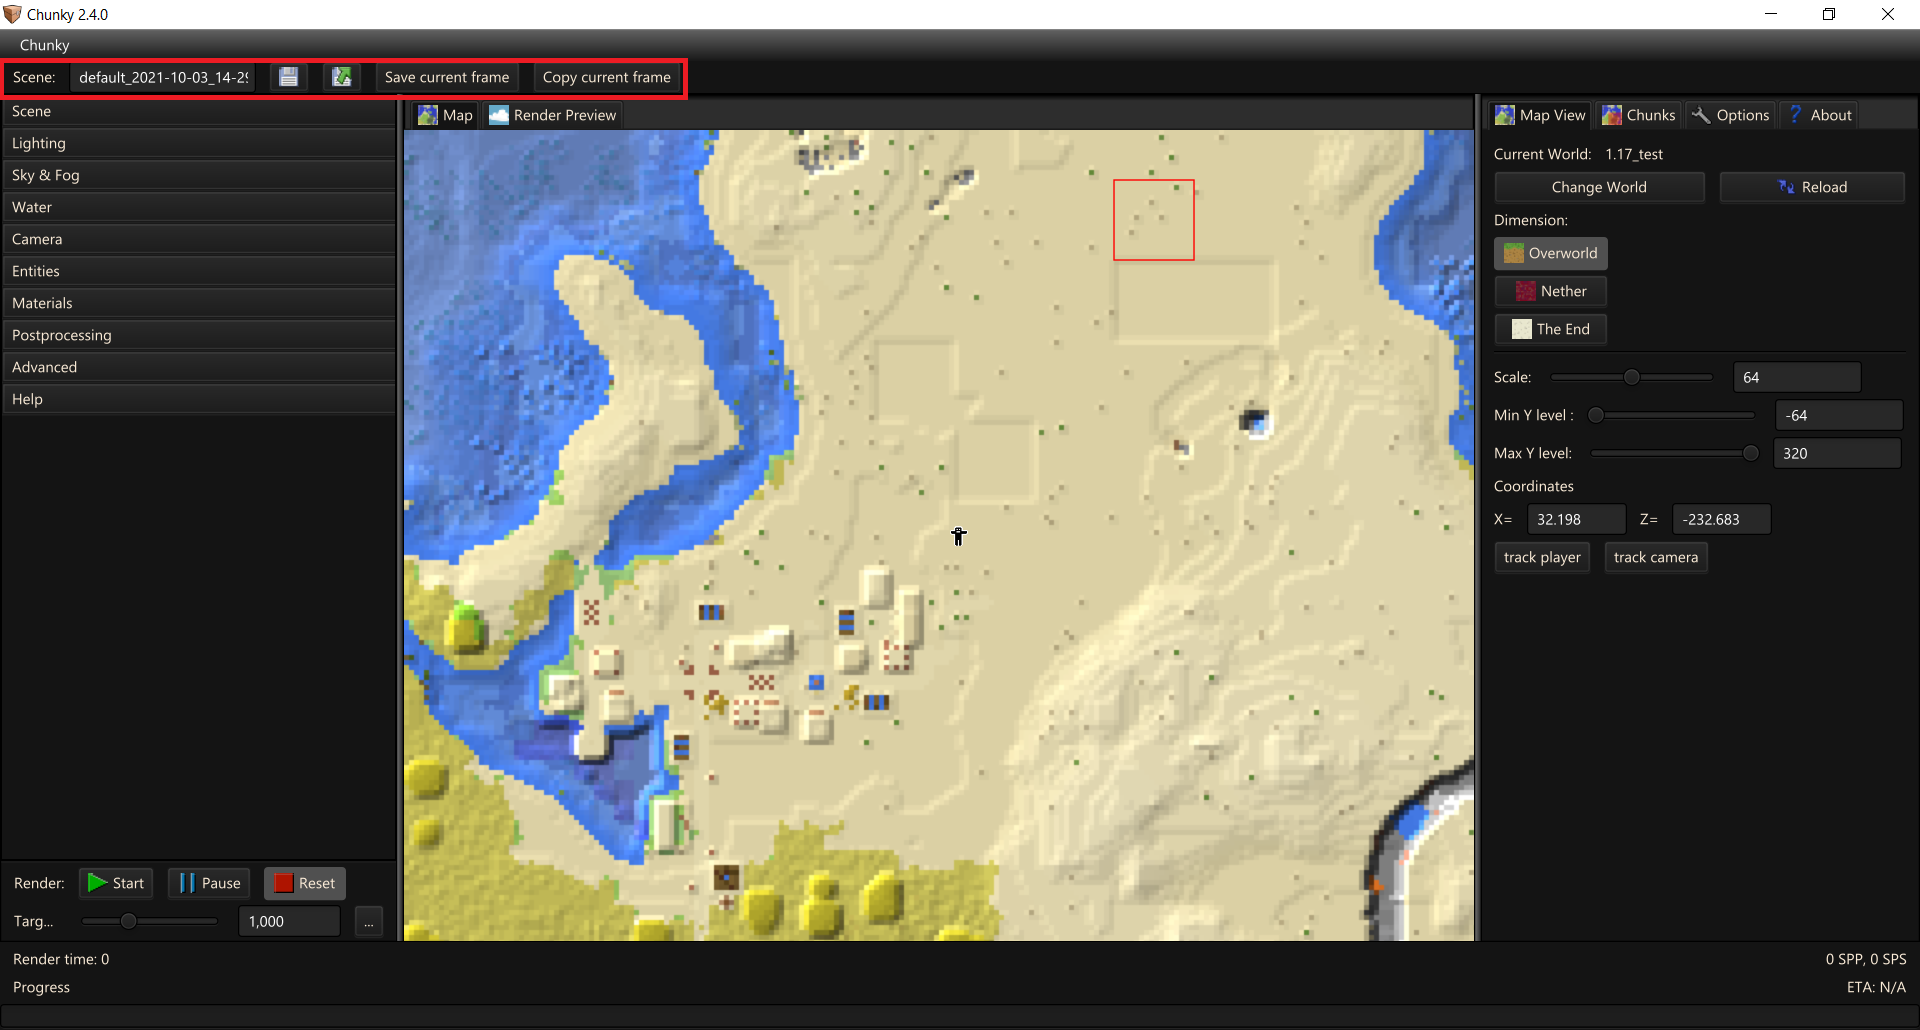
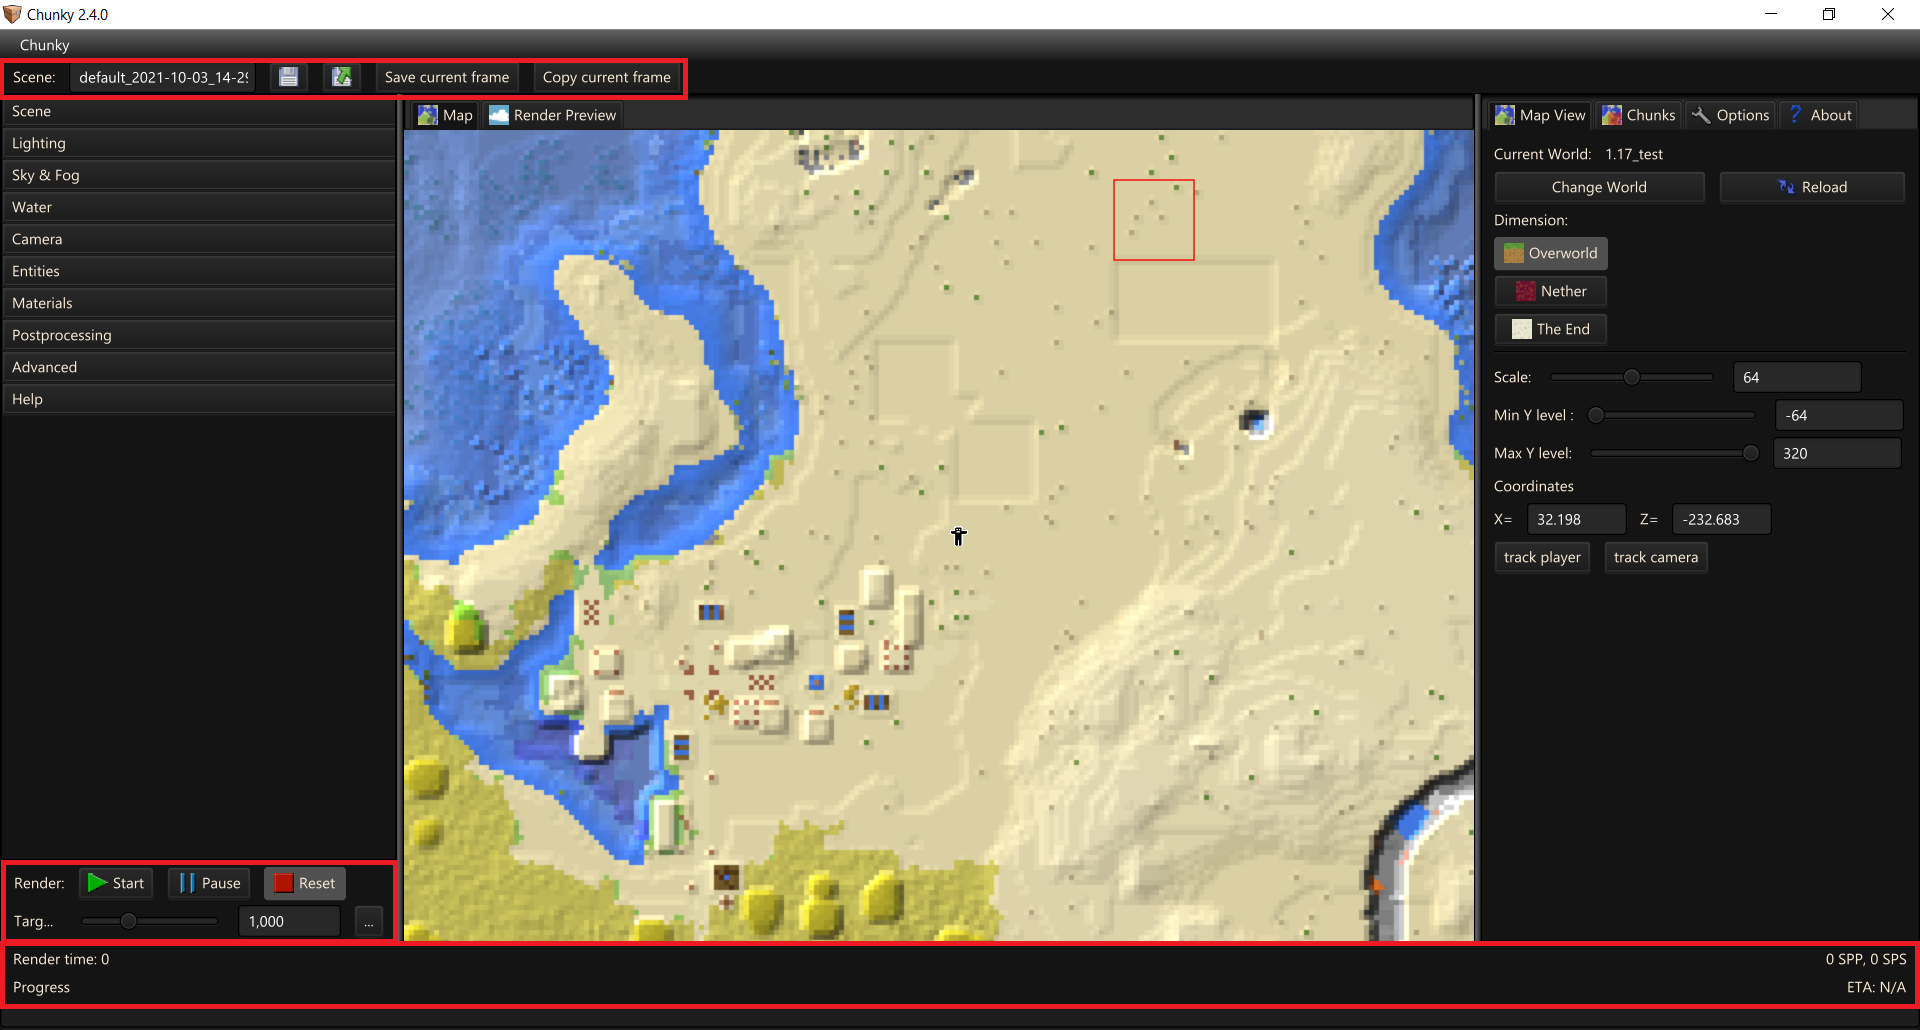
Add headings and some more descriptions

diff --git a/ChunkyDocs/docs/user_interface/render/camera.md b/ChunkyDocs/docs/user_interface/render/camera.md
@@ -2,6 +2,8 @@
 
 ![Render controls Camera](../../img/user_interface/render_controls/camera.png)
 
+## Camera General
+
 - `Load preset` - Loads a camera preset: `Isometric [NW, NE, SE, SW]`, `Skybox [Right, Left, Up, Down, Front (North), Back]`.
 
 	- `Isometric` modes set the camera `projection mode` to `parallel` with the camera aimed down at 45 degrees towards the center of the currently loaded chunks. Yaw depends on preset selected.
@@ -16,6 +18,8 @@
 
 ---
 
+## Camera Controls
+
 - `Position & Orientation`
 
 	- `Position` - Defines the X, Y, Z, coordinates of the Camera. These coordinates correlate with the Minecraft world positions.
@@ -28,6 +32,8 @@
 
 - `Center camera` - Moves the camera to the centre of the loaded world and faces the camera to the ground.
 
+### Projection modes
+
 - `Projection mode`
 
 	- `Standard` - Default pinhole projection works like a normal camera.
@@ -36,13 +42,16 @@
 	
 	- `Fisheye` - This projection makes is like an extrme wide angle lens which distorts images.
 	
-	- `Stereographic`
+	- `Stereographic` - Stereographic projection maps points on the sphere to a plane. If you want tiny planets this is one good way to achieve them.
 	
-	- `Panoramic (equirectangular)`
+	- `Panoramic (equirectangular)` - Simular to standard/pinhole projection.
 	
-	- `Panoramic (slot)`
+	- `Panoramic (slot)` - Behaves like a pinhole camera in the vertical direction, but like a spherical one in the horizontal direction.
 	
-	- `Omni-deirctional Stereo (left/right eye)`
+	- `Omni-deirctional Stereo (left/right eye)` - This projection can create distinct images for viewing on VR devices by factoring the inter-pupillary distance in. Some lines may appear slightly curved.
+
+
+### Depth of Field
 
 - `Field of view (zoom)` - Controls the field of view in the virtual camera. Lower causes a narrower field of view (higher magnification) and high value will result in a wider field of view (low magnification). 70 is the default value, which corresponds with Minecraft's normal field of view.
 

diff --git a/ChunkyDocs/docs/user_interface/render/scene.md b/ChunkyDocs/docs/user_interface/render/scene.md
@@ -18,6 +18,28 @@
 
 ---
 
+- `Start` - Start / Resume render
+
+- `Pause` - Pause current render; current sample must finish before Chunky can pause.
+
+- `Reset` - Reset render back to 0 samples/preview.
+
+- `Target SPP` - Controls target SPP. Can be altered on the go.
+
+---
+
+- `Render time` - Duration of the current render.
+
+- `Progress` - Visual progress bar of the current render progress.
+
+- `SPP`- Samples Per Pixel is one of the defining factors to render quality.
+
+- `SPS` - An averaged measure of the Samples Per Second. Should note that for a 1920x1080 image there are around 2.07 million, or mega, pixels and all of these need to be sampled before SPP is incremented.
+
+- `ETA` - Rough estimate for render completion based on SPS.
+
+---
+
 ### Select 3D Scene
 
 ![Select 3D Scene](../../img/user_interface/render_controls/select3dscene.png)
@@ -38,7 +60,9 @@ Provides a list of all detected scenes in the Scenes directory.
 
 ![Scene tab](../../img/user_interface/render_controls/scene_tab.png)
 
--`Open scene directory` - Opens current scenes directory on disk. It is `~/.chunky/scenes` by default.
+### Scene and chunks
+
+- `Open scene directory` - Opens current scenes directory on disk. It is `~/.chunky/scenes` by default.
 
 - `Export settings` - This allows you to export settings to a copyable JSON. You can individually choose which settings to export.
 
@@ -55,6 +79,8 @@ Provides a list of all detected scenes in the Scenes directory.
 `Reload chunks` - Re-load the currently selected chunks. If working with a loaded scene, ensure the the current selected world is the same as the world used to create the scene.
 
 ---
+
+### Render settings
 
 - `Canvas size` - This is the resolution at which to render at. The drop down has a few presets. (Width x Height)
 

diff --git a/ChunkyDocs/docs/user_interface/render/advanced.md b/ChunkyDocs/docs/user_interface/render/advanced.md
@@ -2,11 +2,15 @@
 
 ![Render controls Advanced](../../img/user_interface/render_controls/advanced.png)
 
+## CPU usage controls
+
 - `Render threads` - Changes the number of threads Chunky should use while rendering. (Needs restart)
 
 - `CPU utilization` - Adds in sleep cycles to the rendering process to attempt to reduce the CPU usage. Would recommend using `Render threads` for more predictable scaling.
 
 ---
+
+## Some quality/performance related options
 
 - `Ray depth` - Controls the number of times a ray is allowed to bounce without striking a light source before killed. For outdoor scenes a value between 3-5 should typically be enough with indoor scenes benifitting more from higher values around 10. Higher values offer more realistic light bounce however at a cost to render time. Balance this carefully.
 
@@ -22,9 +26,13 @@
 
 - `Sky cache resolution` - Resolution of the rendered simulated sky. Lower values may boost rendering performance at the cost of sky model accuracy. Default 128.
 
+## Snapshot output format
+
 - `Output mode` - `PNG` (default), `TIFF, 32-bit floating point`, `PFM, Portable FloatMap (32-bit)`
 
 ---
+
+## Advanced Octree, BVH, and ESS options
 
 - `Octree implementation` - `PACKED` (default), `BIGPACKED`, `NODE` (legacy)
 
@@ -35,6 +43,8 @@
 - `Prevent normal emitter when using emitter sampling` - Attempts to disable typical random emitter hits which would reduce noise.
 
 ---
+
+## Manual renderer selection
 
 - `Renderer` - `PathTracingRenderer` - No other renderers are bundled. See plugins.
 

diff --git a/ChunkyDocs/docs/user_interface/render/entities.md b/ChunkyDocs/docs/user_interface/render/entities.md
@@ -6,33 +6,39 @@
 
 The entities tab lets you create, pose, and remove entities within the scene.
 
-- `Entity table` - Stores a list of Entities
+## Entity controls
 
-- `-` & `+` - Remove or Add entity
+- `Entity table` - Stores a list of Entities that have been loaded and added by the user.
 
-- `Camera to entity`
+- `-` - Remove selected entity
 
-- `Player to camera`
+- `+` -  Add new player entity at target (crosshair)
 
-- `Entity to target`
+- `Camera to entity` - Teleports current camera to the selected entities position
 
-- `Face camera`
+- `Player to camera` - Moves selected entity to camera position
 
-- `Face target`
+- `Entity to target` - Moves selected entity to target (crosshair)
+
+- `Face camera` - Rotates selected entities head to face camera [Bugged]
+
+- `Face target` - Rotates selected entities head to face target (crosshair) [Bugged]
 
 ---
 
-- `Player model`
+## Entity posing
 
-- `Skin` & `Select skin`
+- `Player model` - `Steve` or `Alex`
 
-- `Show second layer`
+- `Skin` & `Select skin` - Select a skin .png file to use as the players texture
 
-- `Scale`
+- `Show second layer` - Show second skin layers. Usually for hats and stuff.
 
-- `Head scale`
+- `Scale` - Scale player model
 
-- `Pose part`
+- `Head scale` - Scales just the players head
+
+- `Pose part` - `all`, `head`, `chest`, `leftArm`, `rightArm`, `leftLeg`, `rightLeg`
 
 	- `pitch`
 	

diff --git a/ChunkyDocs/docs/user_interface/render/lighting.md b/ChunkyDocs/docs/user_interface/render/lighting.md
@@ -2,6 +2,8 @@
 
 ![Render controls lighting](../../img/user_interface/render_controls/lighting.png)
 
+## Sky and Emitters
+
 - `Sky Light` - This adjusts the intensity of rays hitting the sky. Higher values will have more ambient lighting, lower values will have less. The default of `1` is a good balance. Reflections can appear blown out if set too high.
 
 - `Enable emitters` - Enables emitters such as torches, glowstone, etc.. When disabled, they are treated like normal, diffuse blocks, and will not light up the scene. When enabled, they may initially produce noise due to path tracing.
@@ -11,6 +13,8 @@
 - `Emitter Sampling Strategy (ESS)` - This is a powerful setting that helps decrease emitter noise at the cost of more processing power per sample. At each vertex of the ray traced path, a random (if `ONE` is selected) or all emitters (if `ALL` is selected) are sampled within a certain distance. The world must be reloaded if this is enabled when it was previously disabled.
 
 <!-- TODO - Add links to ESS description -->
+
+## Sunlight
 
 - `Enable sunlight` - This setting enables / disables the contribution of sunlight. In indoor renders, this may be safely disabled to increase performance espically if rendering underground.
 

diff --git a/ChunkyDocs/docs/user_interface/render/sky_and_fog.md b/ChunkyDocs/docs/user_interface/render/sky_and_fog.md
@@ -2,6 +2,8 @@
 
 ![Render controls Sky & Fog](../../img/user_interface/render_controls/sky_fog_simulated.png)
 
+## Sky Mode
+
 - `Sky mode` - Simulated, Solid Color, Color Gradient, Skymap (panoramic), Skymap (spherical), Skybox, and Black - These options are expanded on below.
 
 ---
@@ -48,9 +50,11 @@
 		
 	- `Black` - Sets the sky to a solid Black colour. This is redundant but quick and easy to use.
 
----
-	
 - `Transparent sky` - Makes the sky transparent.
+
+---
+
+## Clouds and Fog
 
 - `Enable clouds` - Toggles Minecraft style, blocky clouds. Currently only renders as flat planes, similar to clouds seen in Minecraft's fast graphics mode.
 

diff --git a/ChunkyDocs/docs/user_interface/render/water.md b/ChunkyDocs/docs/user_interface/render/water.md
@@ -2,6 +2,8 @@
 
 ![Render controls Water](../../img/user_interface/render_controls/water.png)
 
+## Water controls
+
 - `Still water` - Disables the wavy water ripples.
 
 - `Water visibility` - Controls the distances rays can travel in water before being terminated.
@@ -11,6 +13,10 @@
 - `User custom water color` - Toggle; Otherwise will use biome water color
 
 - `Pick color` - Lets you pick the custom water color.
+
+---
+
+## Water World
 
 - `Water world mode` - Toggles an infinite water plane.
 

diff --git a/ChunkyDocs/docs/user_interface/render/materials.md b/ChunkyDocs/docs/user_interface/render/materials.md
@@ -2,7 +2,6 @@
 
 ![Render controls Materials](../../img/user_interface/render_controls/materials.png)
 
-
 - `Filter` - Can be used to filter materials list to find the exact block you wish to edit.
 
 -  `Material Properties`
